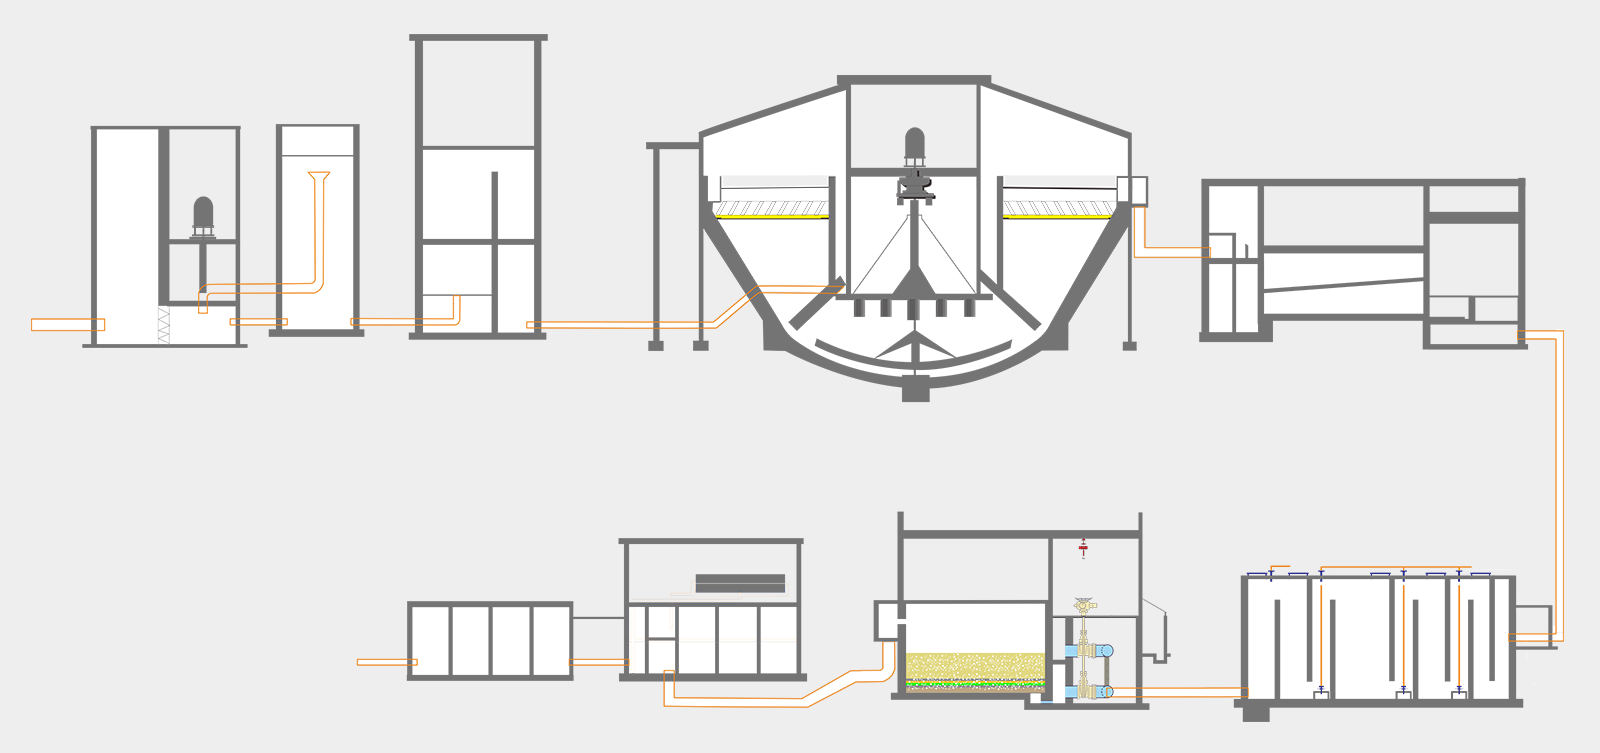
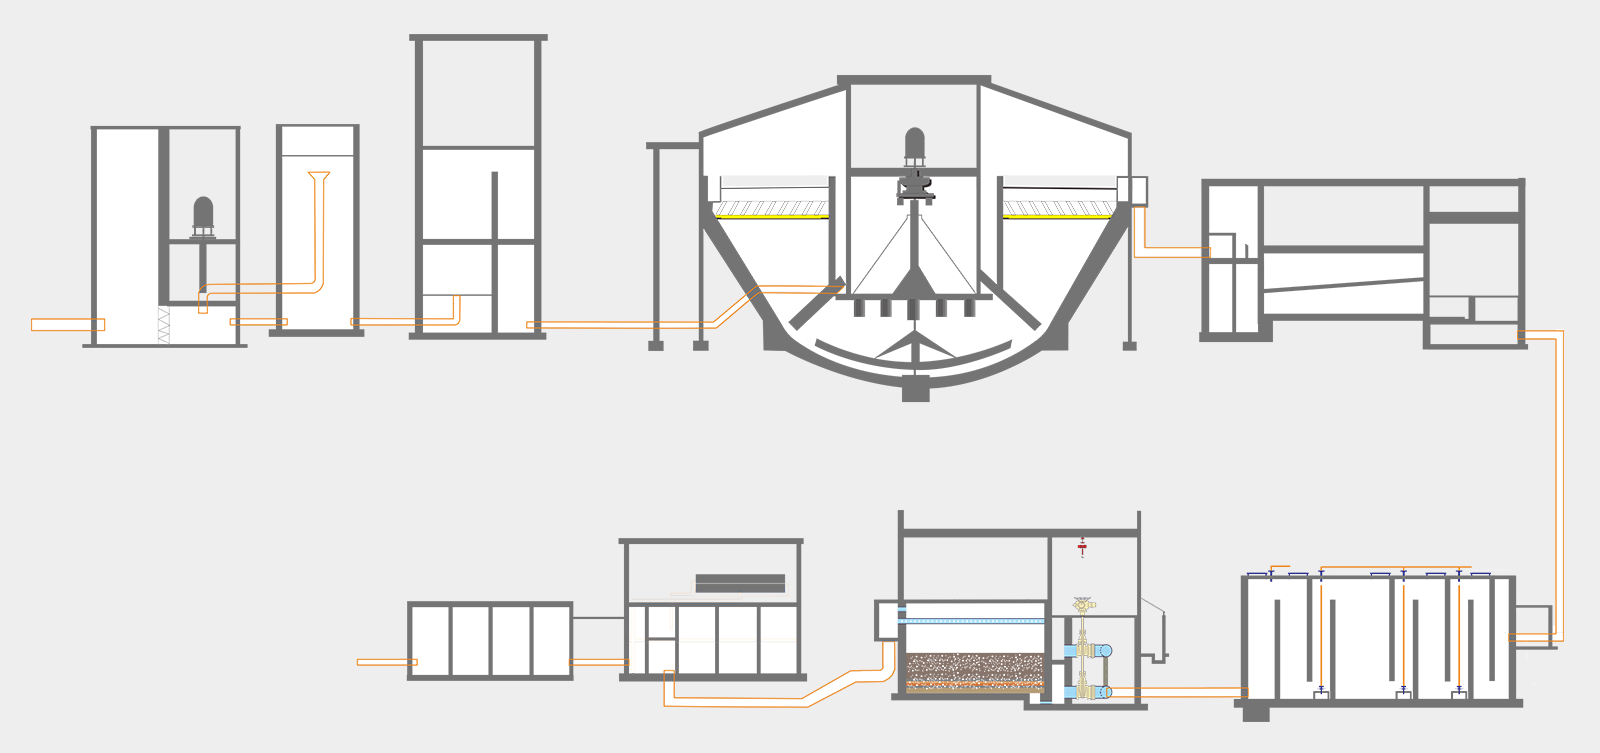
修改了旧工艺线的动画和底图

Changed region(s): [[0.5312, 0.7942, 0.7188, 0.9469], [0.5625, 0.7025, 0.7188, 0.7331]]

diff --git a/WebRoot/js/ZP_old.js b/WebRoot/js/ZP_old.js
@@ -71,10 +71,43 @@ $(document).ready(function(){
             fill: color_SC
         });
         canvas.addChild(SC03);
-
+        var left_t=canvas.display.SC_show({
+            x:1161,
+            y:292,
+            Width:15,
+            Height:15,
+            height_now:0,
+            trail_flag:1,
+            trail:[
+                {x_t:0,y_t:15},
+                {x_t:15,y_t:15},
+                {x_t:15,y_t:0}
+            ],
+            fill: color_SC,
+            speed:speed_SC,
+            full:0,
+            start:start_all
+        }).add();
+        var right_t=canvas.display.SC_show({
+            x:978,
+            y:271,
+            Width:25,
+            Height:25,
+            height_now:0,
+            trail_flag:1,
+            trail:[
+                {x_t:0,y_t:0},
+                {x_t:0,y_t:25},
+                {x_t:25,y_t:25}
+            ],
+            fill: color_SC,
+            speed:speed_SC,
+            full:0,
+            start:start_all
+        }).add();
         var SC04 = canvas.display.SC_show({
-            x: 1026,
-            y: 189,
+            x: 1303,
+            y: 283,
             Width: 431,
             Height: 208,
             height_now: 0,
@@ -233,10 +266,10 @@ $(document).ready(function(){
         canvas.addChild(SC13);
 
         var SC14 = canvas.display.SC_show({
-            x: 539,
-            y: 563,
-            Width: 114,
-            Height: 74,
+            x: 536,
+            y: 590,
+            Width: 113,
+            Height: 65,
             height_now: 0,
             trail_flag: 0,
             t: 0,
@@ -246,7 +279,33 @@ $(document).ready(function(){
             start:start_all
         });
         canvas.addChild(SC14);
-
+        var SC131 = canvas.display.SC_show({
+            x: 649,
+            y: 622,
+            Width: 14,
+            Height: 29,
+            height_now: 0,
+            trail_flag: 0,
+            t: 0,
+            fill: color_SC,
+            speed:speed_SC,
+            full:0,
+            start:start_all
+        });
+        var SC141 = canvas.display.SC_show({
+            x: 516,
+            y: 586,
+            Width: 19,
+            Height: 17,
+            height_now: 0,
+            trail_flag: 0,
+            t: 0,
+            fill: color_SC,
+            speed:speed_SC,
+            full:0,
+            start:start_all
+        });
+        canvas.addChild(SC14);
         var SC15 = canvas.display.SC_show({
             x: 164,
             y: 576,
@@ -498,7 +557,7 @@ $(document).ready(function(){
                 {x_cell: 1312, y_cell: 719},
                 {x_cell: 304, y_cell: 719},
                 {x_cell: 304, y_cell: 650}
-            ],  //锟秸碉拷锟斤拷锟斤拷
+            ],
             deta: 1,
             deta_x: 1, deta_y: 0,
             flag_x: 1, flag_y: 0,
@@ -620,7 +679,7 @@ $(document).ready(function(){
             origin: { x: "center", y: "top" },
             font: "bold 29px Tahoma",
             text:"老工艺流程图",
-            fill:color_txt
+            fill:"#0e406b"
         });
         var txt_HHJ=txt_QS.clone({
             x:780,
@@ -682,6 +741,8 @@ $(document).ready(function(){
             SC01.advance();
             SC02.advance();
             SC03.advance();
+            right_t.advance();
+            left_t.advance();
             SC04.advance();
             SC05.advance();
             SC06.advance();
@@ -692,7 +753,9 @@ $(document).ready(function(){
             SC11.advance();
             SC12.advance();
             SC13.advance();
+            SC131.advance();
             SC14.advance();
+            SC141.advance();
             SC15.advance();
 
 
@@ -711,6 +774,10 @@ $(document).ready(function(){
                 GD03.paused = 1;
             }
             if(GD03.full==1) {
+                left_t.start=1;
+                right_t.start=1;
+            }
+            if(right_t.full==1) {
                 SC04.start = 1;
             }
             if(SC04.full==1) {
@@ -750,12 +817,15 @@ $(document).ready(function(){
             }
             if(SC13.height_now>=SC13.Height*0.2) {
                 GD11.paused = 1;
-                //GD06.paused = 1;
             }
             if( GD11.full==1) {
+                SC131.start=1;
+            }
+            if(SC131.full==1){
                 SC14.start = 1;
             }
             if(SC14.full==1) {
+                SC141.start=1;
                 GD12.paused = 1;
             }
 //            if(GD07.full==1 && GD09.full==1 && GD12.full==1) {
@@ -796,6 +866,8 @@ $(document).ready(function(){
             GD11.init();
             GD12.init();
 
+            left_t.init();
+            right_t.init();
             SC01.init();
             SC02.init();
             SC03.init();
@@ -809,7 +881,9 @@ $(document).ready(function(){
             SC11.init();
             SC12.init();
             SC13.init();
+            SC131.init();
             SC14.init();
+            SC141.init();
             SC15.init();
             GD01.paused=1;
             canvas.settings.fps=40;

diff --git a/WebRoot/js/mc.js b/WebRoot/js/mc.js
@@ -15,81 +15,15 @@ oCanvas.domReady(function () {
         speed_SC=0.9,
         color_GD="#007fff",
         color_SC="#43d9f9";
-    var SC01=createSC({
-        parent:canvas,
-        x:326,y:200,height:438,width:181,trail_flag:0,speed:speed_SC,color:color_SC
-    });
-
-    var SC02=createSC({
-        parent:canvas,
-        x:496,y:567,height:72,width:186,trail_flag:0,speed:speed_SC,color:color_SC
-    });
-
-    var SC03=createSC({
-        parent:canvas,
-        x:841,y:219,height:393,width:144,trail_flag:0,speed:speed_SC,color:color_SC
-    });
 
     var fg = canvas.display.image({
         x: 0,
         y: 0,
-        image: "image/QS_v.png"
+        image: "image/mc.png"
     });
     canvas.addChild(fg);
 
-    var arrow_1=canvas.display.sprite({
-        x: 845,
-        y: 200,
-        image: "image/water-arrow/left_roll.png",
-        generate:false,
-        frames: [
-            {x:60,y:0,w:60,h:60,d:400},
-            {x:0,y:0,w:60,h:60,d:800}
-        ]
-    }).add();
 
-    var arrow_2=canvas.display.sprite({
-        x: 910,
-        y: 200,
-        image: "image/water-arrow/right_roll.png",
-        generate:false,
-        frames: [
-            {x:60,y:0,w:60,h:60,d:400},
-            {x:0,y:0,w:60,h:60,d:800}
-        ]
-    }).add();
-
-    var GD01=createGD({
-        parent:canvas,
-        cells:[
-            {x_cell: 195, y_cell: 587},
-            {x_cell: 335, y_cell: 587}
-        ],
-        GDwidth:width_all,
-        color:color_GD
-    });
-
-    var GD02=createGD({
-        parent:canvas,
-        cells:[
-            {x_cell: 599, y_cell: 600},
-            {x_cell: 599, y_cell: 521},
-            {x_cell: 907, y_cell: 521},
-            {x_cell: 907, y_cell: 232}
-        ],
-        GDwidth:width_all,
-        color:color_GD
-    });
-
-    var GD03=createGD({
-        parent:canvas,
-        cells:[
-            {x_cell: 985, y_cell: 587},
-            {x_cell: 1146, y_cell: 587}
-        ],
-        GDwidth:width_all,
-        color:color_GD
-    });
 
     var txt1=canvas.display.text({
         x:700,
@@ -102,8 +36,8 @@ oCanvas.domReady(function () {
     canvas.addChild(txt1);
 
     var txt2=canvas.display.text({
-        x:204,
-        y:531,
+        x:194,
+        y:611,
         origin: { x:"center", y: "top" },
         font: "bold 25px sans-serif",
         fill:"#337ab7",
@@ -111,8 +45,8 @@ oCanvas.domReady(function () {
     }).add();
 
     var txt3=canvas.display.text({
-        x:1149,
-        y:531,
+        x:1159,
+        y:581,
         origin: { x:"center", y: "top" },
         font: "bold 25px sans-serif",
         fill:"#337ab7",
@@ -120,36 +54,11 @@ oCanvas.domReady(function () {
     }).add();
 
     canvas.setLoop(function () {
-        GD01.advance();
-        SC01.advance();
-        SC02.advance();
-        GD02.advance();
-        SC03.advance();
-        GD03.advance();
-
-        if(GD01.full==1){
-            SC01.start = 1;
-            SC02.start = 1;
-        }
-
-        if(SC02.full==1){
-            GD02.paused = 1;
-        }
-        if(GD02.full==1) {
-            SC03.start = 1;
-            arrow_1.start();
-            arrow_2.start();
-        }
-        if(SC03.height_now>=30) {
-            GD03.paused = 1;
-        }
         canvas.redraw();
     }).start();
-    GD01.paused=1;
     canvas.timeline.start();
     $("#btn_start").click(function(){
         if(this.value==1){
-            GD01.paused=1;
             canvas.redraw();
             this.innerHTML="&#xe61f;";
             this.value=0;

diff --git a/WebRoot/js/ZP_new.js b/WebRoot/js/ZP_new.js
@@ -569,7 +569,7 @@ $(document).ready(function(){
             origin: { x: "center", y: "top" },
             font: "bold 29px Tahoma",
             text:"新工艺流程图",
-            fill:color_txt
+            fill:"#0e406b"
         });
         var txt_HHJ=txt_QS.clone({
             x:470,
